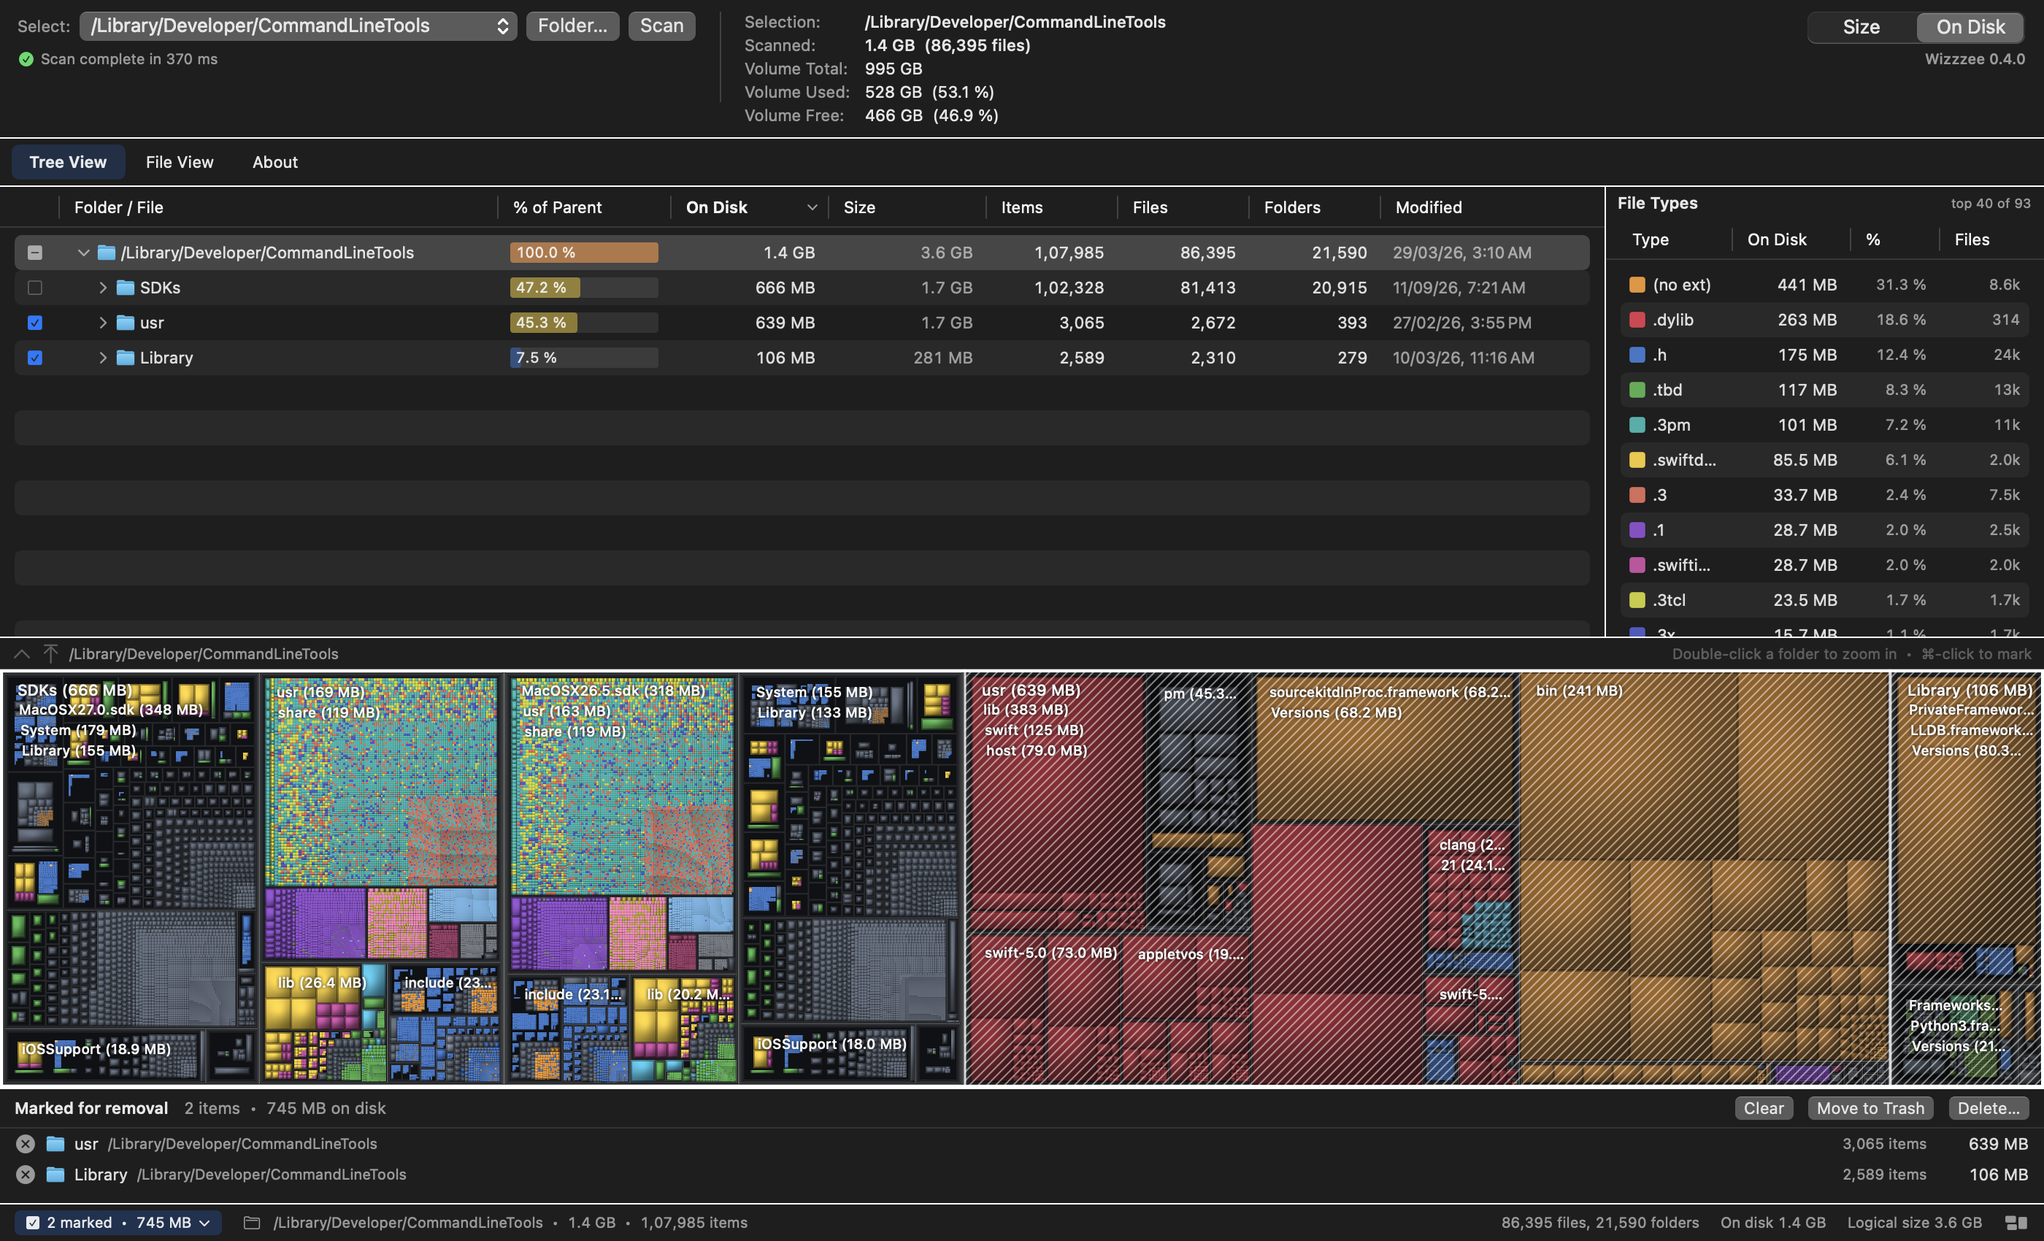
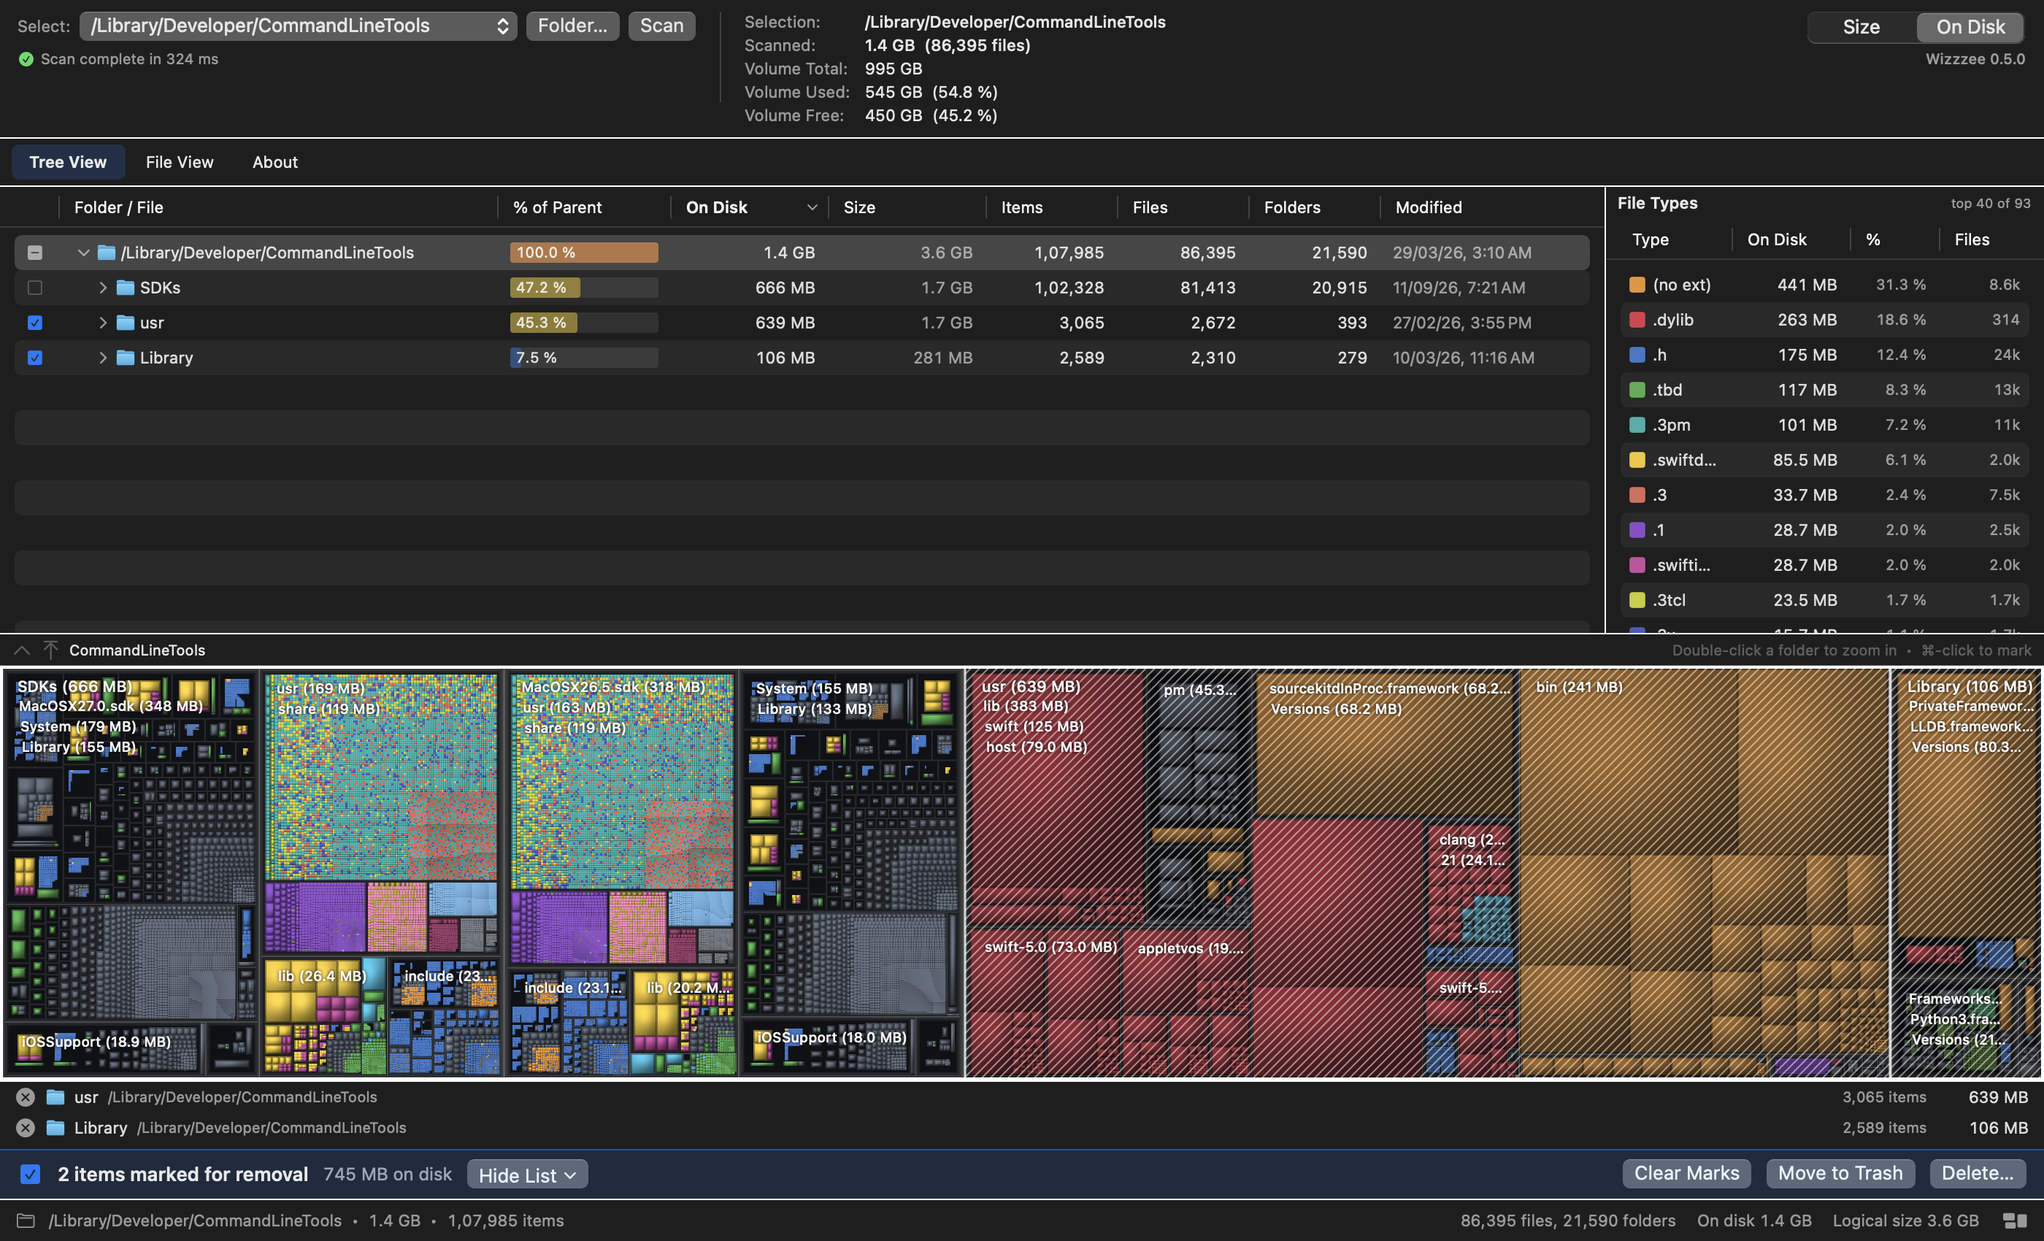
Keep a long list of marks from taking the window, and hold the checks to what they claim
From review of the marks bar.

The list of marks was as tall as its rows asked for, up to 220 points,
whatever the window's height. That cap used to include the buttons, which
are now in a bar under it, and the status bar has grown: in a window at its
shortest a long list no longer fitted. Put together off screen, the header
went off the top and the status bar — where a delete's Stop is — off the
foot. The list is now given what a window of the height measured can
spare, and scrolls past that.

Measured, and not left to the stack to share out. The first attempt put
the list ahead of the tab above it in the stack's asking, so that it was
offered what was left once the tab had the least it could do with. That
passed off screen and failed in the app: the tree and the treemap are an
AppKit split, which took its least whatever it was offered and was drawn
over the tabs and the banner to get it.

The check for a table too narrow for its columns passed without asking
whether the table could scroll sideways at all. Where the columns happen
to fit it now pulls one wider first, and fails if the rows are still no
wider than the room for them. Tried in a window wide enough to need that:
centred, the reveal fails it with "showing from 200.0 across".

The check for the bar read the table's height after a fixed wait, and
could not tell the bar from any other strip of that height. It waits for
the height to stop changing, and counts the four buttons the first mark
puts under the table.
[…]

Changed region(s): [[0.0, 0.4988, 1.0, 0.9976], [0.435, 0.0624, 0.4971, 0.0935]]

diff --git a/Sources/Wizzzee/App/SelfTest.swift b/Sources/Wizzzee/App/SelfTest.swift
@@ -137,6 +137,7 @@ enum SelfTest {
         testARevealedRowIsScrolledIntoView()
         testARevealLeavesANarrowTableWhereItWasAcross()
         testTheMarksBarIsThereFromTheFirstMark()
+        testALongListOfMarksLeavesTheFootOfTheWindowInSight()
         testTreemapVisibilityPersists()
         testPreferenceSummary()
 
@@ -5583,6 +5584,37 @@ enum SelfTest {
         return found
     }
 
+    /// The push buttons under `view`, as AppKit has them: the ones SwiftUI
+    /// draws with a border, and not the plain ones in a table's rows.
+    private static func pushButtons(under view: NSView) -> [NSButton] {
+        var found: [NSButton] = []
+        var pending: [NSView] = [view]
+        while let next = pending.popLast() {
+            if let button = next as? NSButton, !(next is NSPopUpButton) {
+                found.append(button)
+            }
+            pending.append(contentsOf: next.subviews)
+        }
+        return found
+    }
+
+    /// What `measure` comes to once it has stopped changing: the same for
+    /// ten turns of the run loop together. A length read while the window is
+    /// still being laid out is a length it is passing through.
+    @MainActor
+    private static func settled(_ measure: () -> CGFloat) -> CGFloat {
+        var last = measure()
+        var steady = 0
+        let deadline = Date().addingTimeInterval(10)
+        while steady < 10, Date() < deadline {
+            RunLoop.main.run(mode: .default, before: Date().addingTimeInterval(0.02))
+            let now = measure()
+            steady = now == last ? steady + 1 : 0
+            last = now
+        }
+        return last
+    }
+
     /// Runs the main run loop until it has nothing left to do.
     ///
     /// For a check that has put one thing on the main queue and needs it to
@@ -9303,21 +9335,33 @@ enum SelfTest {
             return
         }
         pump(0.3)
-        // Not a check: how wide a table's columns come out is the system's
-        // business, and where they fit there is nothing here to hold.
-        let scrollsAcross = table.rect(ofRow: 0).width > table.visibleRect.width
+        // How wide the columns come out is the system's business. Where they
+        // happen to fit, the name's is pulled wider, as a drag on its edge
+        // would: a table that cannot scroll sideways passes whatever the
+        // reveal does.
+        if table.rect(ofRow: 0).width <= table.visibleRect.width,
+            let name = table.tableColumns.dropFirst().first
+        {
+            name.width += 400
+            pump(0.3)
+        }
+        let rowWidth = table.rect(ofRow: 0).width
+        check(
+            "the narrow table's rows are wider than the room it has for them",
+            rowWidth > table.visibleRect.width && table.visibleRect.minX == 0,
+            "rows \(rowWidth) wide in \(table.visibleRect.width), showing "
+                + "from \(table.visibleRect.minX) across"
+        )
         model.revealInTree(target)
         pumpUntil { table.rows(in: table.visibleRect).contains(row) }
         pump(0.2)
         check(
-            "a row revealed in a table too narrow for its columns is brought "
-                + "into view without the table moving sideways",
+            "a row revealed in it is brought into view without the table "
+                + "moving sideways",
             table.rows(in: table.visibleRect).contains(row)
                 && table.visibleRect.minX == 0,
-            "rows \(table.rect(ofRow: 0).width) wide in "
-                + "\(table.visibleRect.width), which "
-                + (scrollsAcross ? "scrolls" : "does not scroll")
-                + " sideways; showing from \(table.visibleRect.minX) across"
+            "rows \(rowWidth) wide in \(table.visibleRect.width); showing "
+                + "from \(table.visibleRect.minX) across"
         )
     }
 
@@ -9366,10 +9410,10 @@ enum SelfTest {
         // The File View's table is everything between the filter and the
         // foot of the window, so whatever is put at the foot comes out of
         // its height and nowhere else.
-        func tableHeight() -> CGFloat {
-            tables(under: hosting).first { $0.numberOfRows == 6 }?
-                .enclosingScrollView?.frame.height ?? -1
+        func tableScroll() -> NSScrollView? {
+            tables(under: hosting).first { $0.numberOfRows == 6 }?.enclosingScrollView
         }
+        func tableHeight() -> CGFloat { tableScroll()?.frame.height ?? -1 }
         guard pumpUntil(10, { tableHeight() > 0 }) else {
             check(
                 "the File View's table can be found to ask how tall it is",
@@ -9378,18 +9422,38 @@ enum SelfTest {
             )
             return
         }
-        pump(0.3)
-        let bare = tableHeight()
+        let bare = settled(tableHeight)
+        let bareButtons = pushButtons(under: hosting)
 
         let first = NodeRef(dir: result.root, fileIndex: 0)
         let second = NodeRef(dir: result.root, fileIndex: 1)
         model.setMarked([first], true)
         pumpUntil { tableHeight() < bare }
-        let underBar = tableHeight()
+        let underBar = settled(tableHeight)
         check(
-            "the first mark puts the bar up, without the list being asked for",
+            "the first mark takes a strip off the foot of the table, without "
+                + "the list being asked for",
             !model.showsMarks && underBar < bare && bare - underBar < 60,
             "table \(bare) high before, \(underBar) with one mark"
+        )
+        // What the strip is for: Show List, Clear Marks, Move to Trash and
+        // Delete…, on screen without anything having been opened. A button
+        // SwiftUI draws does not give its title up to be read, so they are
+        // told by where they are.
+        let tableFoot = tableScroll().map { $0.convert($0.bounds, to: hosting).maxY } ?? -1
+        let added = pushButtons(under: hosting).filter { button in
+            !bareButtons.contains { $0 === button }
+        }
+        let frames = added.map { $0.convert($0.bounds, to: hosting) }
+        check(
+            "and in it are the four buttons that act on the marks",
+            added.count == 4
+                && frames.allSatisfy {
+                    $0.minY >= tableFoot - 1 && hosting.bounds.contains($0)
+                        && abs($0.midY - (frames.first?.midY ?? 0)) < 1
+                },
+            "\(added.count) new buttons at \(frames.map { Int($0.midY) }), "
+                + "under a table ending at \(Int(tableFoot))"
         )
         check(
             "it says how many, in the singular for one",
@@ -9397,38 +9461,148 @@ enum SelfTest {
             model.marksHeadline
         )
         model.setMarked([second], true)
-        pump(0.3)
         check(
             "a second mark changes the count and not the height",
-            tableHeight() == underBar
+            settled(tableHeight) == underBar
                 && model.marksHeadline == "2 items marked for removal",
             "table \(tableHeight()) high; \(model.marksHeadline)"
         )
 
         model.showsMarks = true
         pumpUntil { tableHeight() < underBar }
-        let underList = tableHeight()
+        let underList = settled(tableHeight)
+        let twoRows = MarksList.height(for: 2, inWindow: frame.height)
         check(
             "the list opens above the bar, a row for each mark",
-            underBar - underList >= MarksList.height(for: 2)
-                && underBar - underList <= MarksList.height(for: 2) + 2,
+            underBar - underList >= twoRows && underBar - underList <= twoRows + 2,
             "table \(underBar) high with the bar, \(underList) with the list; "
-                + "the list is \(MarksList.height(for: 2))"
+                + "the list is \(twoRows)"
         )
         model.showsMarks = false
         pumpUntil { tableHeight() == underBar }
         check(
             "and shuts again under a bar that has not gone",
-            tableHeight() == underBar && model.marks.count == 2,
-            "table \(tableHeight()) high, \(model.marks.count) marked"
+            settled(tableHeight) == underBar && model.marks.count == 2
+                && pushButtons(under: hosting).count == bareButtons.count + 4,
+            "table \(tableHeight()) high, \(model.marks.count) marked, "
+                + "\(pushButtons(under: hosting).count) buttons"
         )
 
         model.clearMarks()
         pumpUntil { tableHeight() == bare }
         check(
-            "the bar goes with the last mark",
-            tableHeight() == bare,
-            "table \(tableHeight()) high, \(bare) to begin with"
+            "the bar goes with the last mark, and its buttons with it",
+            settled(tableHeight) == bare
+                && pushButtons(under: hosting).count == bareButtons.count,
+            "table \(tableHeight()) high, \(bare) to begin with; "
+                + "\(pushButtons(under: hosting).count) buttons, "
+                + "\(bareButtons.count) to begin with"
+        )
+    }
+
+    /// A list of marks longer than the window has room for scrolls. Held at
+    /// the height its rows asked for, it took the room from everything else:
+    /// in a window at its shortest the header went off the top and the
+    /// status bar — where a delete's Stop is — off the foot.
+    @MainActor
+    private static func testALongListOfMarksLeavesTheFootOfTheWindowInSight() {
+        let base = scratch("marks-long")
+        defer { try? FileManager.default.removeItem(at: base) }
+        do {
+            try FileManager.default.createDirectory(
+                at: base,
+                withIntermediateDirectories: true
+            )
+            for i in 0..<14 {
+                try write(base.appendingPathComponent("f\(i).dat"), bytes: 4_096 * (i + 1))
+            }
+        } catch {
+            check("the long list fixture can be built", false, "\(error)")
+            return
+        }
+
+        let model = AppModel()
+        model.customFolder = base.path
+        // With everything that can be above the list above it: the tree and
+        // the map, and the banner about Full Disk Access.
+        model.hasFullDiskAccess = false
+        model.dismissedAccessPrompt = false
+        model.showsTreemap = true
+        let hosting = NSHostingView(rootView: ContentView(model: model))
+        // The shortest the window goes.
+        let frame = NSRect(x: 0, y: 0, width: 1160, height: 660)
+        hosting.frame = frame
+        let window = NSWindow(
+            contentRect: frame,
+            styleMask: [.titled, .resizable],
+            backing: .buffered,
+            defer: false
+        )
+        window.contentView = hosting
+        window.isReleasedWhenClosed = false
+        window.setFrameOrigin(NSPoint(x: -9000, y: -9000))
+        window.orderFront(nil)
+        defer { window.close() }
+
+        guard let result = loadSynchronously(into: model) else { return }
+        /// The list of marks: the one scroll view that is not a table's.
+        func list() -> NSScrollView? {
+            var pending: [NSView] = [hosting]
+            while let view = pending.popLast() {
+                if let scroll = view as? NSScrollView {
+                    if !(scroll.documentView is NSTableView) { return scroll }
+                    continue
+                }
+                pending.append(contentsOf: view.subviews)
+            }
+            return nil
+        }
+        func listHeight() -> CGFloat { list()?.frame.height ?? -1 }
+        func strays() -> [NSRect] {
+            pushButtons(under: hosting).map { $0.convert($0.bounds, to: hosting) }
+                .filter { !hosting.bounds.contains($0) }
+        }
+
+        let twelve = Set((0..<12).map { NodeRef(dir: result.root, fileIndex: $0) })
+        model.setMarked(twelve, true)
+        model.showsMarks = true
+        guard pumpUntil(10, { listHeight() > 0 }) else {
+            check("the list of marks can be found to ask how tall it is", false, "")
+            return
+        }
+        let short = settled(listHeight)
+        // What twelve rows come to with all the room there could be.
+        let asked = MarksList.height(for: 12, inWindow: 10_000)
+        check(
+            "in the shortest window a long list of marks gives way and scrolls",
+            model.marks.count == 12 && short < asked
+                && short == MarksList.height(for: 12, inWindow: frame.height)
+                && short >= MarksList.height(for: 2, inWindow: frame.height),
+            "the list is \(short) high; its rows ask for \(asked)"
+        )
+        check(
+            "and nothing is pushed out of the window to make room for it",
+            strays().isEmpty && !pushButtons(under: hosting).isEmpty,
+            "\(pushButtons(under: hosting).count) buttons, out of the window at "
+                + "\(strays())"
+        )
+
+        window.setContentSize(NSSize(width: 1160, height: 940))
+        pumpUntil { listHeight() > short }
+        check(
+            "given the room, the list is as tall as its rows ask for",
+            settled(listHeight) == asked,
+            "the list is \(listHeight()) high; its rows ask for \(asked)"
+        )
+        check(
+            "a list of one is one row, however short the window",
+            MarksList.height(for: 1, inWindow: 660) == 24
+                && MarksList.height(for: 1, inWindow: 100) == 24
+                && MarksList.height(for: 40, inWindow: 100) == 46
+                && MarksList.height(for: 40, inWindow: 2_000) == 220,
+            "\(MarksList.height(for: 1, inWindow: 660)), "
+                + "\(MarksList.height(for: 40, inWindow: 100)), "
+                + "\(MarksList.height(for: 40, inWindow: 2_000))"
         )
     }
 

diff --git a/Sources/Wizzzee/UI/ContentView.swift b/Sources/Wizzzee/UI/ContentView.swift
@@ -5,6 +5,8 @@ struct ContentView: View {
     @ObservedObject var model: AppModel
     /// The window's, which is what Edit ▸ Undo and ⌘Z act on.
     @Environment(\.undoManager) private var undoManager
+    /// How high the window's contents are. The shortest it goes until told.
+    @State private var windowHeight: CGFloat = 660
 
     var body: some View {
         VStack(spacing: 0) {
@@ -34,7 +36,12 @@ struct ContentView: View {
                 if model.showsMarks {
                     Divider()
                     MarksList(model: model)
-                        .frame(height: MarksList.height(for: model.marks.count))
+                        .frame(
+                            height: MarksList.height(
+                                for: model.marks.count,
+                                inWindow: windowHeight
+                            )
+                        )
                 }
                 MarksBar(model: model)
             }
@@ -47,6 +54,19 @@ struct ContentView: View {
         // columns instead of compressing them, so this is the real floor.
         // Enforced as the window minimum via .windowResizability(.contentMinSize).
         .frame(minWidth: 1160, minHeight: 660)
+        // Measured, for the list of marks to be told how much there is. The
+        // stack would not share it out: the tree and the treemap are an
+        // AppKit split, which takes the least it will do with whatever it is
+        // offered, and draws over the tabs above it to get it.
+        .background(
+            GeometryReader { window in
+                Color.clear
+                    .onAppear { windowHeight = window.size.height }
+                    .onChange(of: window.size.height) {
+                        windowHeight = window.size.height
+                    }
+            }
+        )
         .onAppear { model.undoManager = undoManager }
         .onChange(of: undoManager) { model.undoManager = undoManager }
         .quickLookPreview($model.previewURL)

diff --git a/Sources/Wizzzee/UI/Marks.swift b/Sources/Wizzzee/UI/Marks.swift
@@ -166,10 +166,24 @@ struct MarksBar: View {
 struct MarksList: View {
     @ObservedObject var model: AppModel
 
-    /// Tall enough for a handful and no taller than a third of a small
-    /// window: past that the list scrolls.
-    static func height(for count: Int) -> CGFloat {
-        min(220, CGFloat(count) * 22 + 2)
+    /// What the rest of the window needs when it has the most in it and
+    /// each part is at its least: the header, the banner about Full Disk
+    /// Access, the tabs, the tree over the treemap, the bar under this list
+    /// and the status bar. Added up from the window on screen, with a couple
+    /// of points to spare.
+    static let restOfWindow: CGFloat = 530
+
+    /// A row for each mark up to ten of them, and no more than a window
+    /// `window` high can spare: past either the list scrolls.
+    ///
+    /// Given the height its rows asked for whatever the window's, a long
+    /// list took room the window did not have. At its shortest, what was
+    /// above the list was drawn over itself to fit — the tree across the
+    /// tabs — or went off the top, and the status bar, where a delete's
+    /// Stop is, off the foot.
+    static func height(for count: Int, inWindow window: CGFloat) -> CGFloat {
+        let rows = CGFloat(count) * 22 + 2
+        return max(min(rows, 46), min(rows, 220, window - restOfWindow))
     }
 
     var body: some View {
